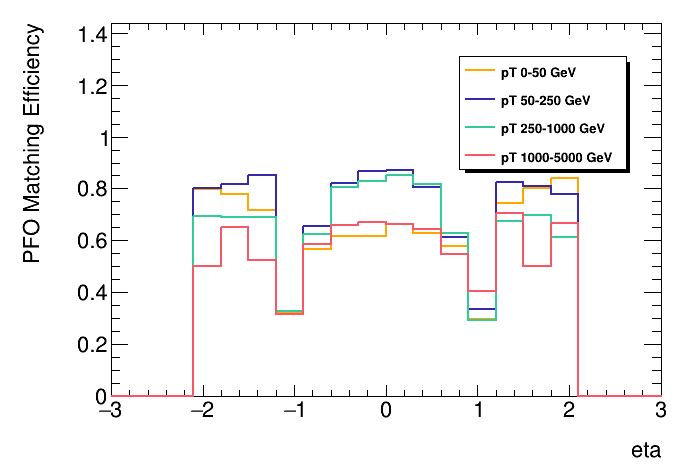
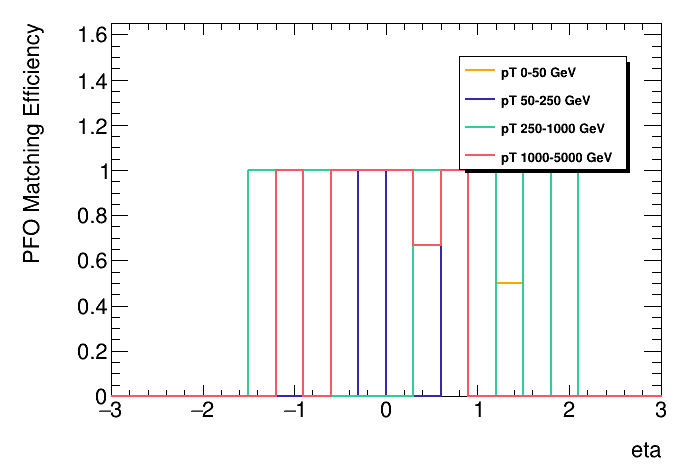
NEED to debug

diff --git a/electronStudies.py b/electronStudies.py
@@ -16,7 +16,7 @@ exec(open("./plotHelper.py").read())
 ROOT.gROOT.SetBatch()
 
 # Set up some options
-max_events = -1
+max_events = 10
 
 # Open the edm4hep files with ROOT
 #samples = glob.glob("/data/fmeloni/DataMuC_MuColl10_v0A/k4reco/electronGun*")
@@ -56,16 +56,6 @@ hists2d = {}
 for s in files:
     hists2d[s] = {}
 
-    #hists2d[s]["trk_eta_v_trk_pt"] = ROOT.TH2F(f"trk_eta_v_trk_pt_{s}", f"trk_eta_v_trk_pt_{s}", 30,-3,3,30,0,3000)
-    #hists2d[s]["trk_eta_v_trk_phi"] = ROOT.TH2F(f"trk_eta_v_trk_phi_{s}", f"trk_eta_v_trk_phi_{s}", 30,-3,3,30,-3,3)
-    #hists2d[s]["trk_eta_v_trk_n"] = ROOT.TH2F(f"trk_eta_v_trk_n_{s}", f"trk_eta_v_trk_n_{s}", 30,-3,3,20,0,20)
-    #hists2d[s]["trk_eta_v_mcp_eta"] = ROOT.TH2F(f"trk_eta_v_mcp_eta_{s}", f"trk_eta_v_mcp_eta_{s}", 30,-3,3,30,-3,3)
-    #hists2d[s]["trk_eta_v_mcp_pt"] = ROOT.TH2F(f"trk_eta_v_mcp_pt_{s}", f"trk_eta_v_mcp_pt_{s}", 30,-3,3,30,0,3000)
-    #hists2d[s]["trk_eta_v_mcp_phi"] = ROOT.TH2F(f"trk_eta_v_mcp_phi_{s}", f"trk_eta_v_mcp_phi_{s}", 30,-3,3,30,-3,3)
-    #hists2d[s]["trk_pt_v_mcp_pt"] = ROOT.TH2F(f"trk_pt_v_mcp_pt_{s}", f"trk_pt_v_mcp_pt_{s}", 30,ptMin,ptMax,30,ptMin,ptMax)
-    #hists2d[s]["pfo_pt_v_mcp_pt"] = ROOT.TH2F(f"pfo_pt_v_mcp_pt_{s}", f"pfo_pt_v_mcp_pt_{s}", 30,ptMin,ptMax,30,ptMin,ptMax)
-    #hists2d[s]["mcp_E_v_mcp_p"] = ROOT.TH2F(f"mcp_E_v_mcp_p_{s}", f"mcp_E_v_mcp_p_{s}", 30,0,1000,30,0,1000)
-
     hists2d[s]["trk_eta_v_trk_pt"] = ROOT.TH2F(f"trk_eta_v_trk_pt_{s}", f"trk_eta_v_trk_pt_{s}", 30,-3,3,30,0,3000)
     hists2d[s]["trk_eta_v_trk_phi"] = ROOT.TH2F(f"trk_eta_v_trk_phi_{s}", f"trk_eta_v_trk_phi_{s}", 30,-3,3,30,-3,3)
     hists2d[s]["trk_eta_v_trk_n"] = ROOT.TH2F(f"trk_eta_v_trk_n_{s}", f"trk_eta_v_trk_n_{s}", 30,-3,3,20,0,20)
@@ -81,7 +71,7 @@ for s in files:
 #tlv1.DeltaR(tlv2) < 0.1
 # Perform matching between two TLVs
 def isMatched(tlv1, tlv2):
-    if tlv1.DeltaR(tlv2) < 0.1 and abs(tlv1.Perp()-tlv2.Perp())/tlv2.Perp() < 0.2:       
+    if tlv1.DeltaR(tlv2) < 0.1: #and abs(tlv1.Perp()-tlv2.Perp())/tlv2.Perp() < 0.2:       
         return True
     return False
 #def isClusterMatched(tlv1, tlv2):
@@ -137,12 +127,13 @@ for s in files:
             for mcp in mcps:
                 if not mcp.getGeneratorStatus() == 1: continue
                 mcp_tlv = getTLV(mcp)
+                if mcp_tlv.E() < 20: continue
                 if abs(mcp_tlv.Eta())>2: continue
+                #print(f" For file {i} what particles: {mcp.getPDG()} with pt {mcp_tlv.Pt()}")
                 fillObjHists(hists[s], "mcp", mcp_tlv)
                 momentum = math.sqrt(mcp.getMomentum()[0]**2+mcp.getMomentum()[1]**2+mcp.getMomentum()[2]**2)
                 hists2d[s]["mcp_E_v_mcp_p"].Fill(mcp.getEnergy(), momentum)
                 n_mcp += 1
-                n_mcp_el += 1
 
                 # Look at electrons only
                 if abs(mcp.getPDG()) == 11:
@@ -155,7 +146,8 @@ for s in files:
 
             hists[s]["mcp_n"].Fill(n_mcp)
             hists[s]["mcp_el_n"].Fill(n_mcp_el)
-
+            print(f"Sample {s}: {n_mcp_el} MC electrons passed all cuts")
+    
  
 
 
@@ -163,6 +155,8 @@ for s in files:
 
             for pfo in pfos:
                 pfo_tlv = getTLV(pfo)
+                if pfo_tlv.E() < 10: continue
+                if my_mcp_el is None: continue
                 fillObjHists(hists[s], "pfo", pfo_tlv)
                 n_pfo += 1
 
@@ -171,10 +165,13 @@ for s in files:
                 # Look at electrons only
                 if abs(pfo.getType()) == 11:
                     fillObjHists(hists[s], "pfo_el", pfo_tlv)
+                    #print(f"For pfo in file {i}: {pfo_tlv.Pt()}")
                     n_pfo_el += 1
 
                     # Look at electrons matched to the gun electron
                     if isMatched(pfo_tlv, my_mcp_el):
+                        if "mcp_el_eta" not in hists[s] or hists[s]["mcp_el_eta"].GetEntries() == 0:
+                            continue
                         fillObjHists(hists[s], "pfo_el_match", pfo_tlv)
                         #fillObjHists(hists[s], "mcp_el_match", my_mcp_el)
                         n_matched_el += 1
@@ -189,7 +186,7 @@ for s in files:
             for cluster in clusters:
                 cluster_position = cluster.getPosition()
                 cluster_E = cluster.getEnergy()
-                if cluster_E <= 0:
+                if cluster_E <= 10:
                     continue
 
                 cluster_vec = ROOT.TVector3()
@@ -198,11 +195,15 @@ for s in files:
                 cluster_tlv = ROOT.TLorentzVector()
                 cluster_tlv.SetVect(direction * cluster_E)
                 cluster_tlv.SetE(cluster_E)
+                if my_mcp_el is None: continue
                 
                 fillObjHists(hists[s], "clusters", cluster_tlv)
                 n_clusters += 1
                 
                 if isMatched(cluster_tlv, my_mcp_el):
+                    if "mcp_el_eta" not in hists[s] or hists[s]["mcp_el_eta"].GetEntries() == 0:
+                        continue
+
                     fillObjHists(hists[s], "clusters_el_match", cluster_tlv)
                     n_matched_clusters += 1
                
@@ -215,6 +216,8 @@ for s in files:
             ######## Loop over tracks
             for trk in trks:
                 trk_tlv = getTrackTLV(trk, m=0.0005)
+                if trk_tlv.E() < 10: continue
+                if my_mcp_el is None: continue
                 fillObjHists(hists[s], "trk", trk_tlv)
 
                 hists2d[s]["trk_eta_v_trk_pt"].Fill(trk_tlv.Eta(), trk_tlv.Perp())
@@ -225,8 +228,11 @@ for s in files:
                 hists2d[s]["trk_eta_v_mcp_phi"].Fill(trk_tlv.Eta(), my_mcp_el.Phi())
                 hists2d[s]["trk_pt_v_mcp_pt"].Fill(trk_tlv.Perp(), my_mcp_el.Perp())
                 n_trk += 1
-
+                #print(f"For track in file {i}: {trk_tlv.DeltaR(my_mcp_el)}")
+                
                 if isMatched(trk_tlv, my_mcp_el):
+                    if "mcp_el_eta" not in hists[s] or hists[s]["mcp_el_eta"].GetEntries() == 0:
+                        continue
                     fillObjHists(hists[s], "trk_el_match", my_mcp_el)
                     n_matched_trk += 1
 
@@ -234,13 +240,13 @@ for s in files:
             hists[s]["trk_el_match_n"].Fill(n_matched_trk)
             
             i += 1
-        if "1000_5000" in s:
-            mcp_el_counts[s] += n_mcp_el
+            if "1000_5000" in s:
+                mcp_el_counts[s] += n_mcp_el
 
 
         reader.close()
 total = sum(mcp_el_counts[s] for s in mcp_el_counts if "1000_5000" in s)
-print(f"\nTotal nymber of MC electrons in 1000-5000 GeV slice: {total}")
+#print(f"\nTotal nymber of MC electrons in 1000-5000 GeV slice: {total}")
 
 from plotHelper import plotHistograms
 
@@ -259,13 +265,11 @@ for s in hists:
         continue
     num = hists[s]["trk_el_match_eta"]
     denom = hists[s]["mcp_el_eta"]
+    print("denom:", denom, "type:", type(denom))
     eff = num.Clone(f"{s}_trk_eff_eta")
-    eff.Divide(denom)
+    eff.Divide(denom, option = "B")
     eff.SetTitle("")
     eff_eta_trk[label_map[s]] = eff
-    #new with error bars
-    eff_graph = ROOT.TGraphAsymmErrors(num, denom, "cl=.683 b(1,1) mode")
-    eff_graph.SetTitle("")
 
 plotHistograms(
     eff_eta_trk,
@@ -287,12 +291,12 @@ for s in hists:
     num = hists[s]["pfo_el_match_eta"]
     denom = hists[s]["mcp_el_eta"]
     eff = num.Clone(f"{s}_pfo_eff_eta")
-    eff.Divide(denom)
+    eff.Divide(denom, option = "B")
     eff.SetTitle("")
     eff_eta_pfo[label_map[s]] = eff
     # for error bar plots
-    eff_graph_pfo = ROOT.TGraphAsymmErrors(num, denom, "cl=.683 b(1,1) mode")
-    eff_graph_pfo.SetTitle("")
+    #eff_graph_pfo = ROOT.TGraphAsymmErrors(num, denom, "cl=.683 b(1,1) mode")
+    #eff_graph_pfo.SetTitle("")
 
 plotHistograms(
     eff_eta_pfo,
@@ -314,12 +318,12 @@ for s in hists:
     num = hists[s]["clusters_el_match_eta"]
     denom = hists[s]["mcp_el_eta"]
     eff = num.Clone(f"{s}_cluster_eff_eta")
-    eff.Divide(denom)
+    eff.Divide(denom, option = "B")
     eff.SetTitle("")
     eff_eta_clus[label_map[s]] = eff
     ## for error bars
-    eff_graph_clus = ROOT.TGraphAsymmErrors(num, denom, "cl=.683 b(1,1) mode")
-    eff_graph_clus.SetTitle("")
+    #eff_graph_clus = ROOT.TGraphAsymmErrors(num, denom, "cl=.683 b(1,1) mode")
+    #eff_graph_clus.SetTitle("")
 
 plotHistograms(
     eff_eta_clus,
@@ -337,34 +341,6 @@ for s in hists:
 #print("ntracks entries", hists[s]["trk_n"].GetEntries())
 #print("ntracks integral from 1", hists[s]["trk_n"].GetEntries())
 #print("trackpt entries", hists[s]["trk_pt"].GetEntries())
-# Save binomial error plots 
-def draw_eff_graphs_multislice(obj_key, ylabel, save_name):
-    c = ROOT.TCanvas()
-    legend = ROOT.TLegend(0.15, 0.7, 0.5, 0.88)
-    first = True
-    colors = [ROOT.kRed+1, ROOT.kBlue+1, ROOT.kGreen+2, ROOT.kMagenta+1]
-    for i, s in enumerate(hists):
-        if obj_key not in hists[s] or "mcp_el_eta" not in hists[s]:
-            continue
-        num = hists[s][obj_key]
-        denom = hists[s]["mcp_el_eta"]
-        g = ROOT.TGraphAsymmErrors(num, denom, "cl=0.683 b(1,1) mode")
-        g.SetLineColor(colors[i % len(colors)])
-        g.SetMarkerColor(colors[i % len(colors)])
-        g.SetMarkerStyle(20 + i)
-        g.SetTitle(f";#eta;{ylabel}")
-        if first:
-            g.Draw("AP")
-            first = False
-        else:
-            g.Draw("P same")
-            legend.AddEntry(g, label_map.get(s, s), "lp")
-            legend.Draw()
-            c.SaveAs(f"plots/{save_name}")
-draw_eff_graphs_multislice("trk_el_match_eta", "Track Matching Efficiency", "binomial_trk_eff_eta_allSlices.png")
-draw_eff_graphs_multislice("pfo_el_match_eta", "PFO Matching Efficiency", "binomial_pfo_eff_eta_allSlices.png")
-draw_eff_graphs_multislice("clusters_el_match_eta", "Cluster Matching Efficiency", "binomial_cluster_eff_eta_allSlices.png")
-
 
 # Draw all the 1D histograms you filled
 for i, h in enumerate(hists[s]):
